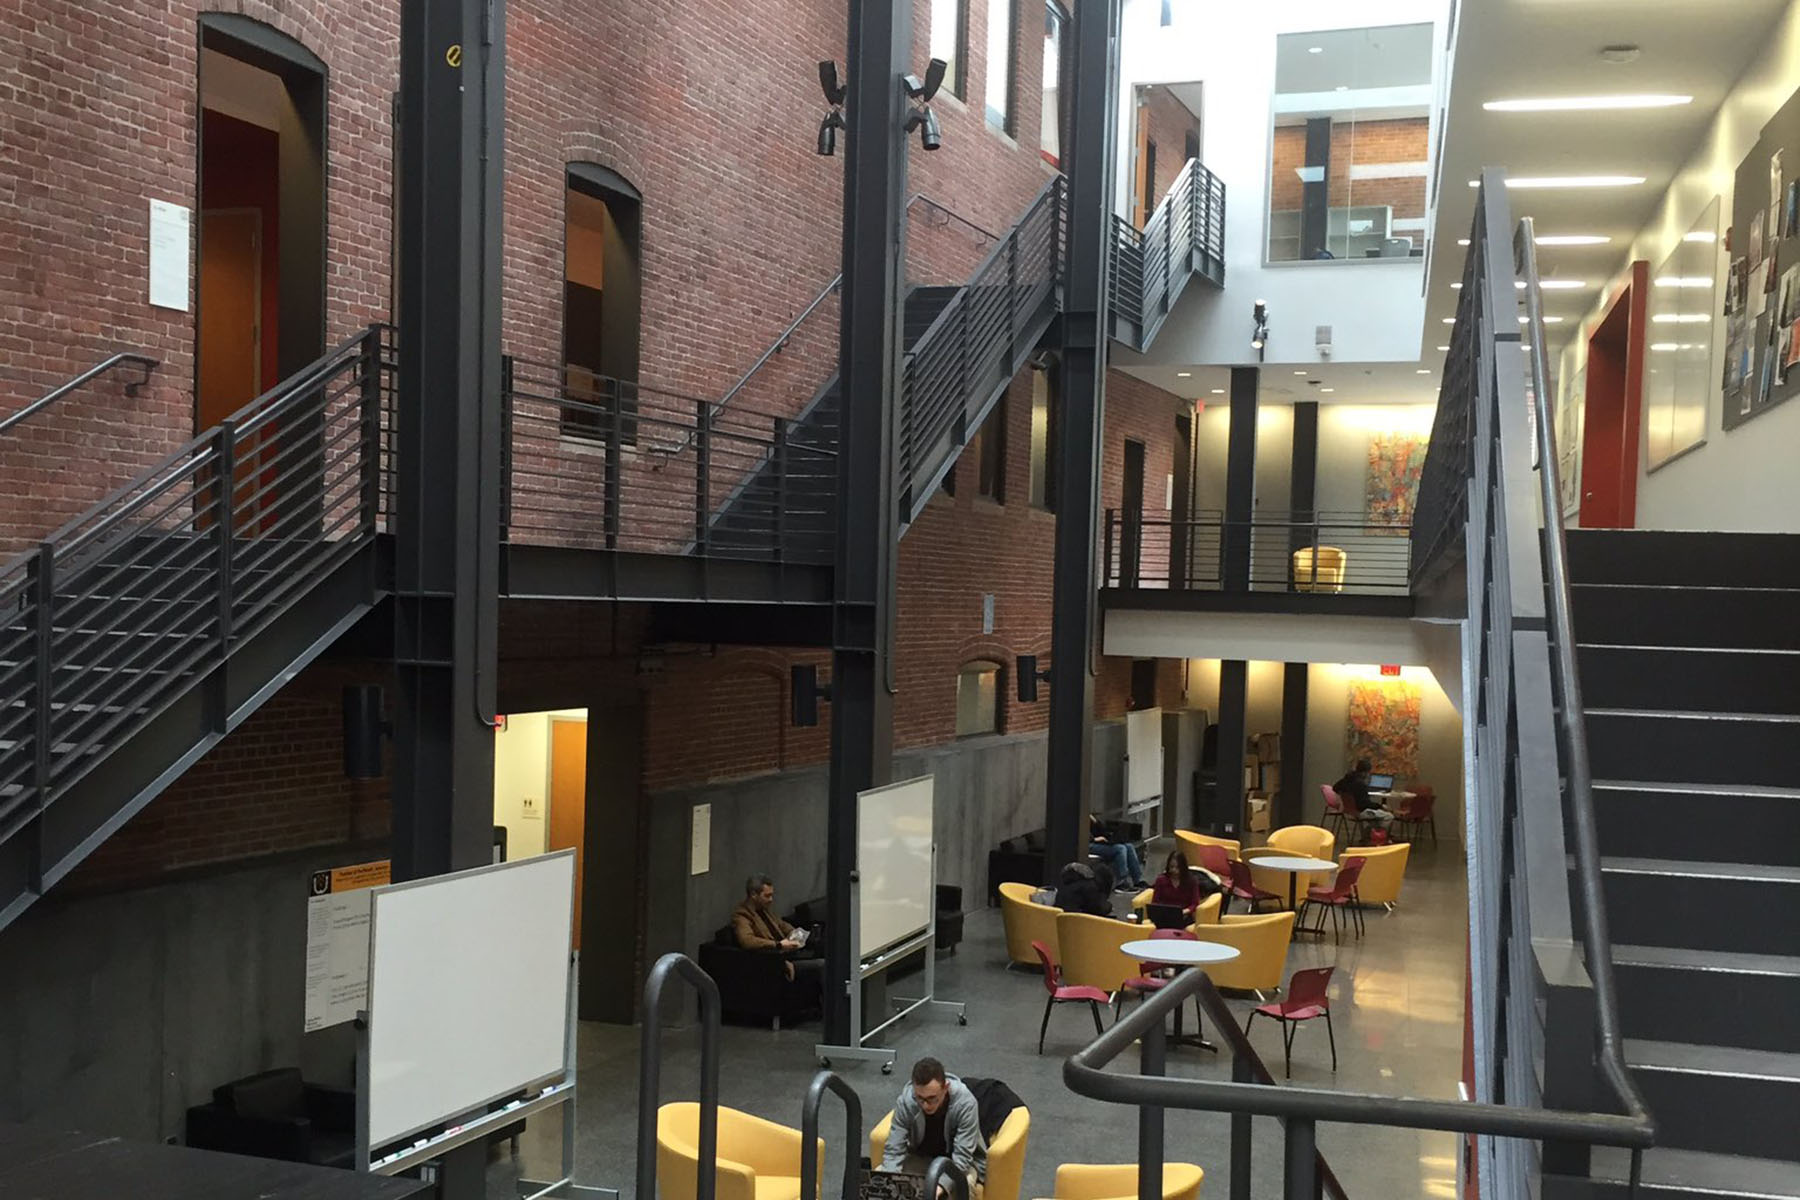
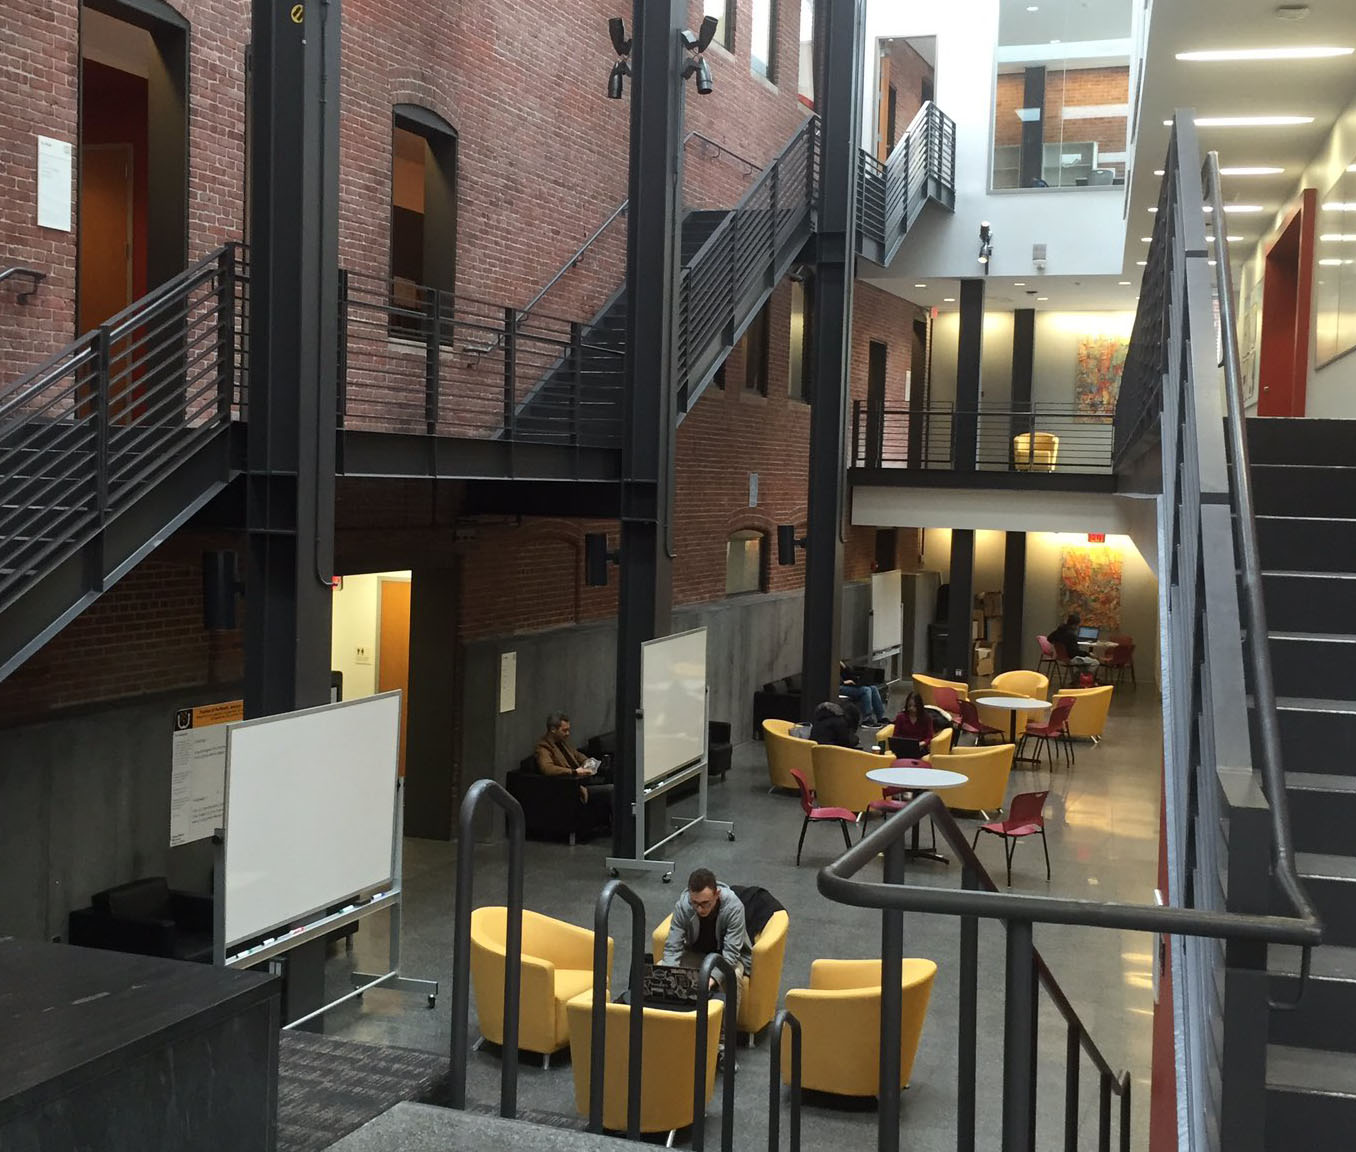
Make images fit

diff --git a/index.html b/index.html
@@ -19,7 +19,8 @@ layout: default
 								<div class="content wow bounceInRight">
 						{% else %}
 							<section class="feature right">
-								<a href="#" class="image icon fa-code wow bounceInRight"><img src="{{section.image}}" alt="" /></a>
+								<!-- icon fa-code -->
+								<a href="#" class="image wow bounceInRight"><img src="{{section.image}}" alt="" /></a>
 								<div class="content wow bounceInLeft">
 						{% endif %}
 									<h3>{{section.title}}</h3>

diff --git a/css/main.css b/css/main.css
@@ -2438,8 +2438,10 @@
 
 			.feature .image img {
 				display: block;
-				min-height: 100%;
-				min-width: 100%;
+				height:100%;
+				max-height: 100%;
+				width: 100%;
+				max-width: 100%;
 				position: absolute;
 			}
 
